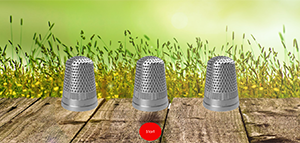
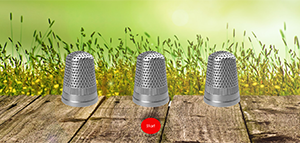
№3

diff --git a/Thimbles/styles/styles.css b/Thimbles/styles/styles.css
@@ -8,7 +8,7 @@ body { background: url("../images/wooden-floor-with-green-background.jpg") cente
     width: 800px;
     height: 185px;
     margin: 0 auto;
-    padding-top: 250px;
+    padding-top: 230px;
     text-align: center;
 }
 
@@ -48,21 +48,12 @@ body { background: url("../images/wooden-floor-with-green-background.jpg") cente
     -o-transition: -o-transform 0.3s ease-in-out;
     -moz-transition: -moz-transform 0.3s ease-in-out;
 }
-/*.cup:after {
-    content: '';
-    display: inline-block;
-    width: 182px;
-    height: 251px;
-    box-shadow: 29px 18px 23px rgba(29, 5, 5, 0.51);
-    border-radius: 16px 0 130px 44px;
-    -webkit-transform: skewX(25deg) skewY(15deg) translateX(-33px);
-}*/
 
 .button {
     position: relative;
     top: 300px;
     border-radius: 50%;
-    padding: 30px;
+    padding: 25px;
     border: none;
     font-size: 17px;
     font-family: Century Gothic;

diff --git a/Thimbles/styles/keyframes.css b/Thimbles/styles/keyframes.css
@@ -87,5 +87,5 @@
     -webkit-transform: translateZ(0);
     -ms-transform: translateZ(0);
     transform: translateZ(0);
-    box-shadow: 0px -40px 20px rgba(29, 5, 5, 0.51);
+    box-shadow: 0px -25px 20px rgba(29, 5, 5, 0.51);
 }
